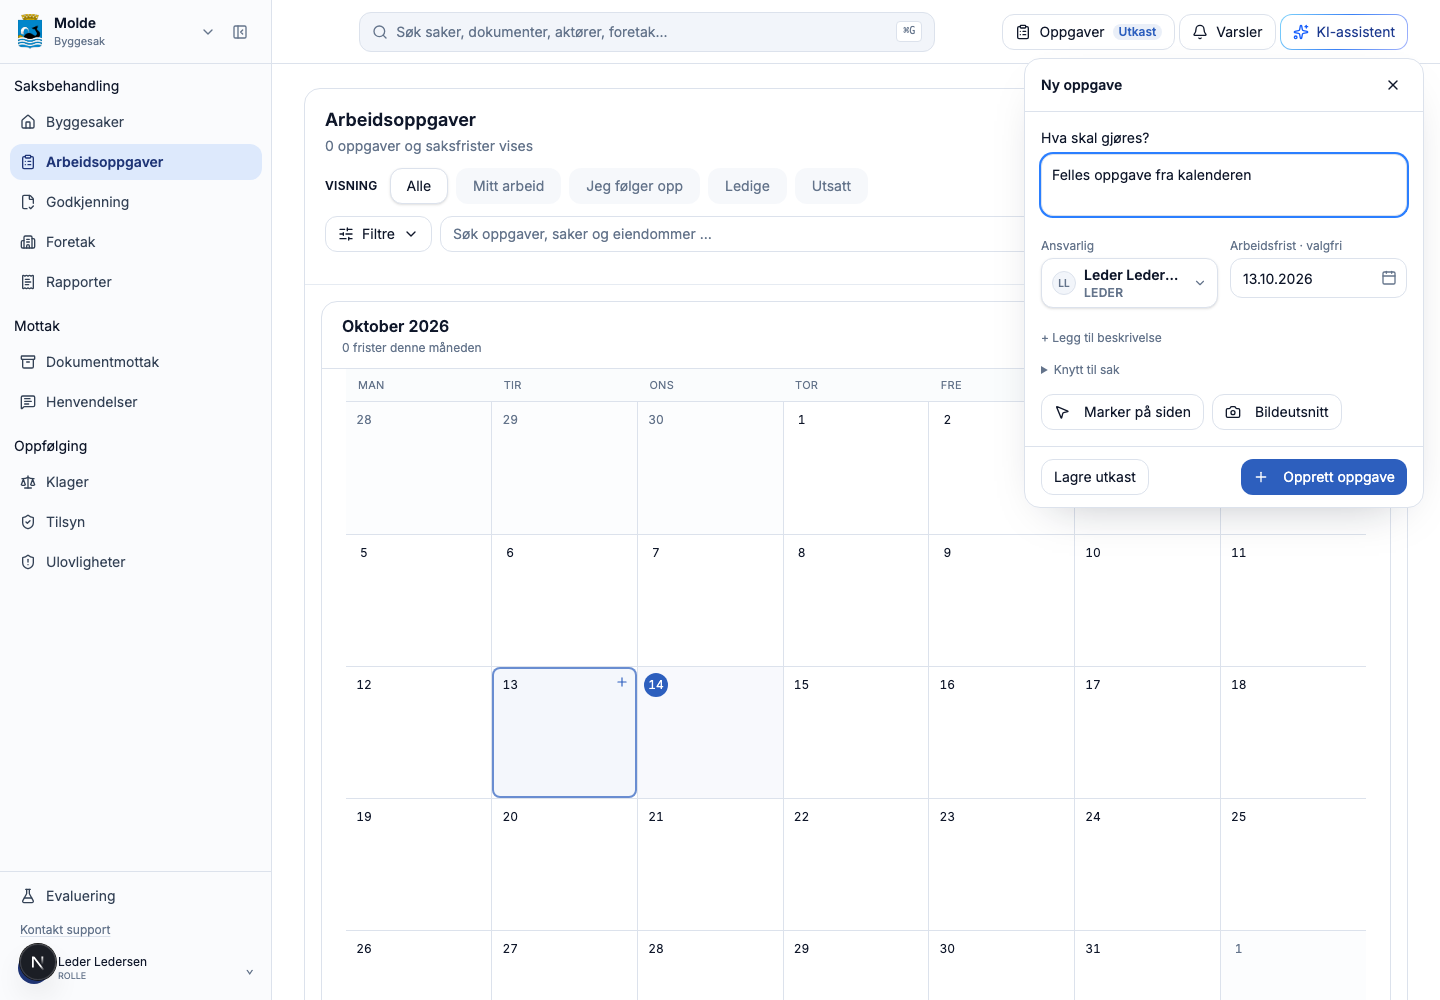
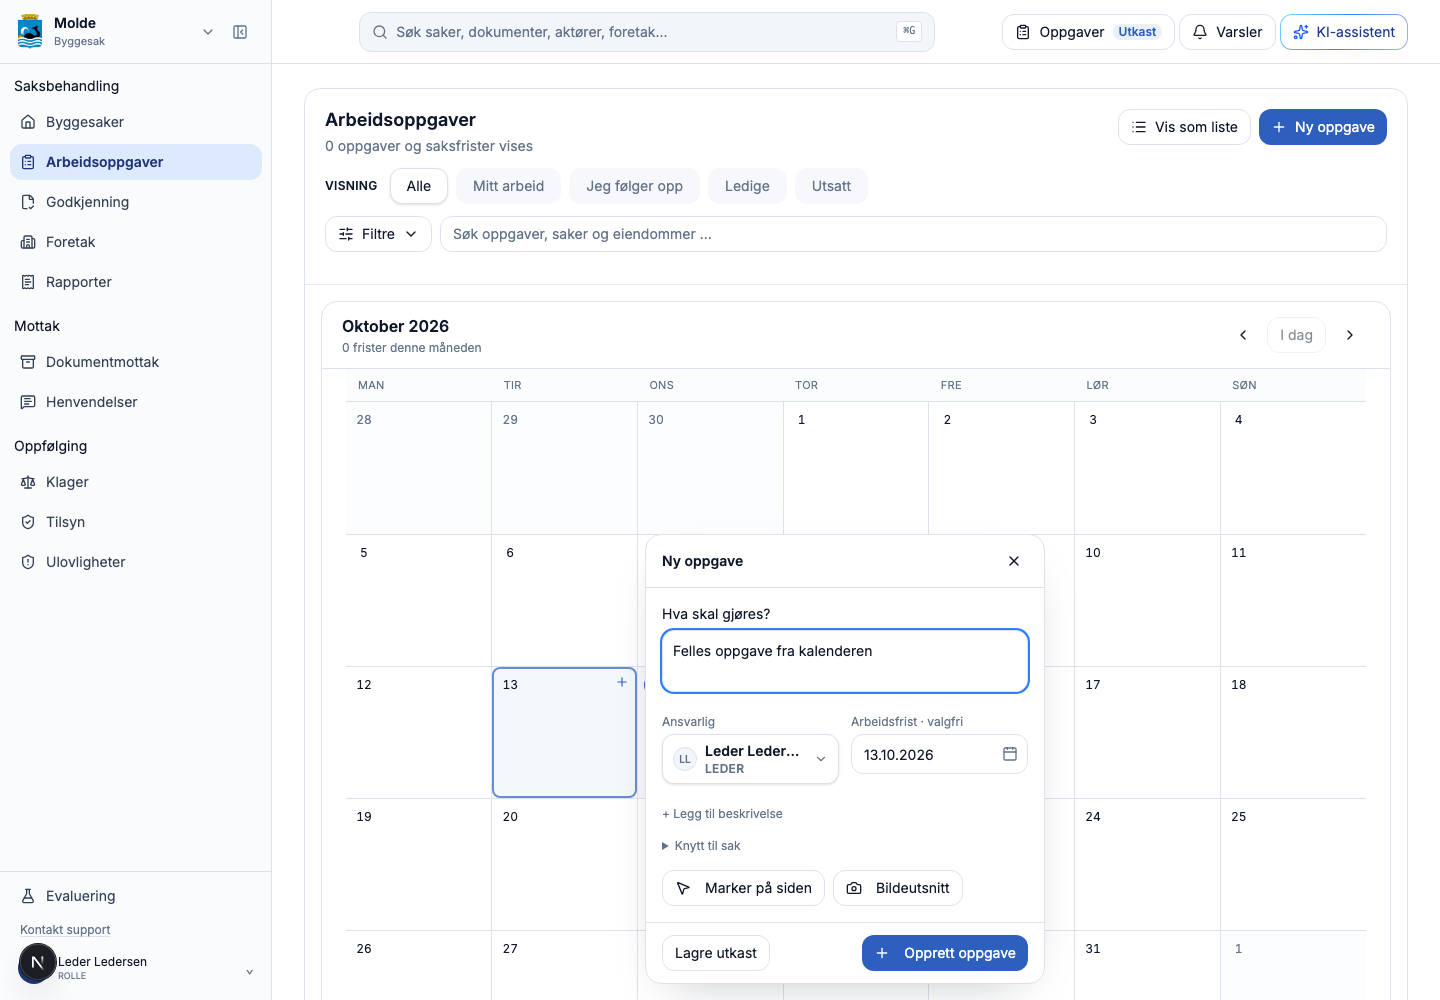
docs: show calendar task popup beside selected date

diff --git a/pr-2982/2026-10-14/README.md b/pr-2982/2026-10-14/README.md
@@ -38,7 +38,7 @@ Oppgaver uten dato finnes under kalenderen, slik at de ikke forsvinner fra arbei
 
 ### Opprett fra en kalenderdag
 
-Dagen forblir markert mens oppgaven skrives. Datoen fylles inn automatisk. Oppgavevinduet bruker den felles plasseringen øverst til høyre.
+Dagen forblir markert mens oppgaven skrives. Datoen fylles inn automatisk. Oppgavevinduet åpnes ved kalenderdagen og bytter automatisk mellom høyre og venstre side etter tilgjengelig plass.
 
 ![Opprett fra en kalenderdag](02-calendar-create.png)
 
